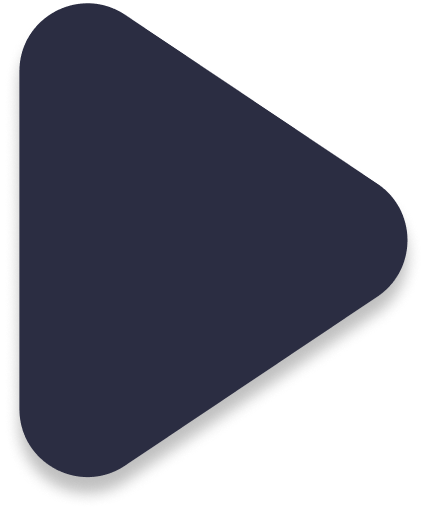
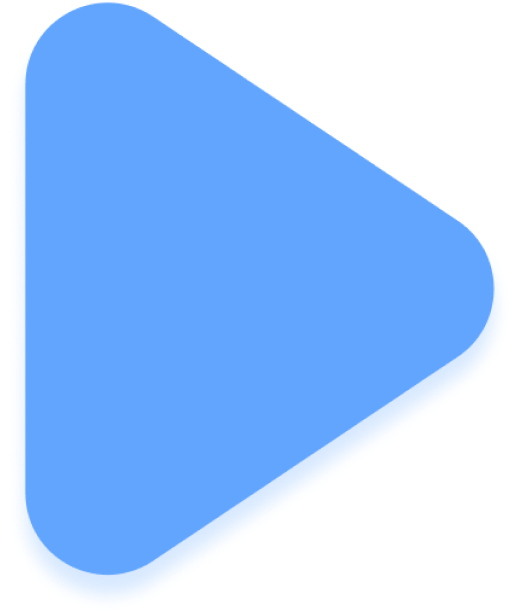
Feat: Timer Page 기능 추가 #14

diff --git a/src/pages/TimerPage/TimerPage.jsx b/src/pages/TimerPage/TimerPage.jsx
@@ -1,29 +1,25 @@
-import React, { useState } from "react";
+import React from "react";
 
-import Sidebar from "../../components/Sidebar/Sidebar";
 import Timer from "../../components/Timer/Timer";
 import * as S from "./TimerPage.style";
 
-const TimerPage = ({ changeModal }) => {
+const TimerPage = () => {
   const getTime = (count) => {};
 
   return (
     <S.TimerPage>
-      <S.Content>
-        <Sidebar />
-        <S.NonSidebar>
-          <Timer getTime={getTime} modalState={changeModal} />
-          <S.Explanation>
-            <S.UpdateTimeExplanation>
-              오전 4시 기준으로 시간을 업데이트합니다
-            </S.UpdateTimeExplanation>
-            <br />
-            오늘의 목표 시간은 5h 5m 5s 이에요
-            <br />
-            목표를 2/9 완료했어요
-          </S.Explanation>
-        </S.NonSidebar>
-      </S.Content>
+      <S.Timer>
+        <Timer getTime={getTime} />
+      </S.Timer>
+      <S.Explanation>
+        <S.UpdateTimeExplanation>
+          오전 4시 기준으로 시간을 업데이트합니다
+        </S.UpdateTimeExplanation>
+        <br />
+        오늘의 목표 시간은 5h 5m 5s 이에요
+        <br />
+        목표를 2/9 완료했어요
+      </S.Explanation>
     </S.TimerPage>
   );
 };

diff --git a/src/pages/TimerPage/TimerPage.style.jsx b/src/pages/TimerPage/TimerPage.style.jsx
@@ -1,35 +1,38 @@
 import styled from "@emotion/styled";
 
-export const TimerPage = styled.div``;
-export const Content = styled.div`
+export const TimerPage = styled.div`
+  width: 100%;
+  height: 100%;
+
   display: flex;
-  justify-content: space-between;
-  margin-top: 7%;
-  margin-left: 20%;
-  margin-right: 20%;
-  align-items: center;
-  letter-spacing: 1px;
-`;
-export const NonSidebar = styled.div`
-  //   width: 70%;
-  display: flex;
-  flex-direction: column;
   justify-content: center;
   align-items: center;
-  //   padding-top: 7%;
+
+  gap: 10%;
+  padding-top: 30px;
+
+  color: #4e7ab2;
+  letter-spacing: 1px;
 `;
 
-export const remainingTime = styled.div`
-  text-align: center;
+export const Timer = styled.div`
+  padding: 30px;
+
+  background-color: #e1eeff;
+  border-radius: 10px;
 `;
+
 export const Explanation = styled.div`
   text-align: center;
   font-weight: bold;
   font-size: 20px;
+
+  padding: 30px;
+
+  background-color: #e1eeff;
+  border-radius: 10px;
 `;
 
 export const UpdateTimeExplanation = styled.div`
-  color: Gray;
   font-size: 17px;
-  margin-top: -23px;
 `;

diff --git a/src/components/Timer/Timer.style.jsx b/src/components/Timer/Timer.style.jsx
@@ -12,7 +12,7 @@ export const Timer = styled.div`
 `;
 
 export const CountTime = styled.div`
-  background-color: #3d5a80;
+  background-color: #61a5ff;
   color: white;
   text-align: center;
   margin-top: 20px;
@@ -21,8 +21,6 @@ export const CountTime = styled.div`
   padding: 30px;
 `;
 
-export const RestTime = styled.div``;
-
 export const SelectTimerButtons = styled.div``;
 
 export const SelectTimerButtonStart = styled.button`
@@ -30,7 +28,7 @@ export const SelectTimerButtonStart = styled.button`
   background-size: contain;
   background-repeat: no-repeat;
   background-position: center;
-  background-color: white;
+  background-color: #e1eeff;
   width: 100px;
   height: 100px;
   border: none;
@@ -45,7 +43,7 @@ export const SelectTimerButtonStop = styled.button`
   background-size: contain;
   background-repeat: no-repeat;
   background-position: center;
-  background-color: white;
+  background-color: #e1eeff;
   width: 100px;
   height: 100px;
   border: none;

diff --git a/src/components/Timer/Timer.jsx b/src/components/Timer/Timer.jsx
@@ -33,17 +33,8 @@ const Timer = (props) => {
 
   const { count, start, stop } = useTimer(0, 1000);
 
-  const [isModalVisible, setIsModalVisible] = useState(false);
-
   const setTime = () => {
     props.getTime(count);
-    if (isModalVisible) {
-      // console.log(isModalVisible);
-      props.modalState(true);
-    } else {
-      // console.log(isModalVisible);
-      props.modalState(false);
-    }
   };
 
   useEffect(() => {
@@ -63,15 +54,11 @@ const Timer = (props) => {
         <S.SelectTimerButtonStart
           onClick={() => {
             start();
-            console.log(isModalVisible);
-            setIsModalVisible(true);
           }}
         />
         <S.SelectTimerButtonStop
           onClick={() => {
             stop();
-            console.log(isModalVisible);
-            setIsModalVisible(false);
           }}
         />
       </S.SelectTimerButtons>
